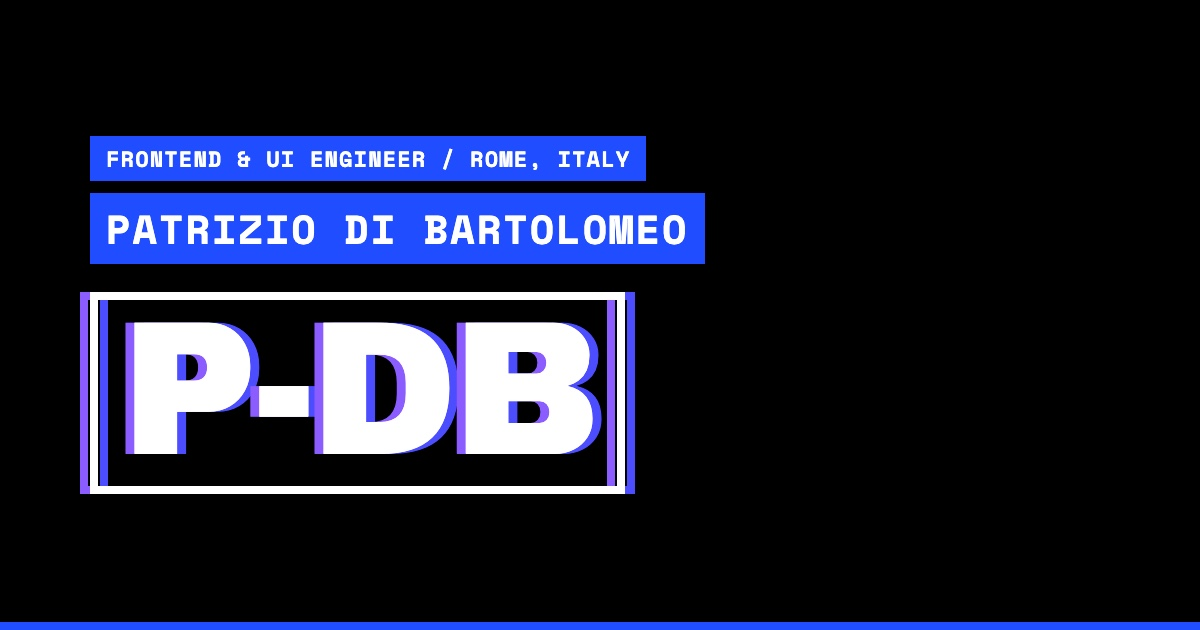
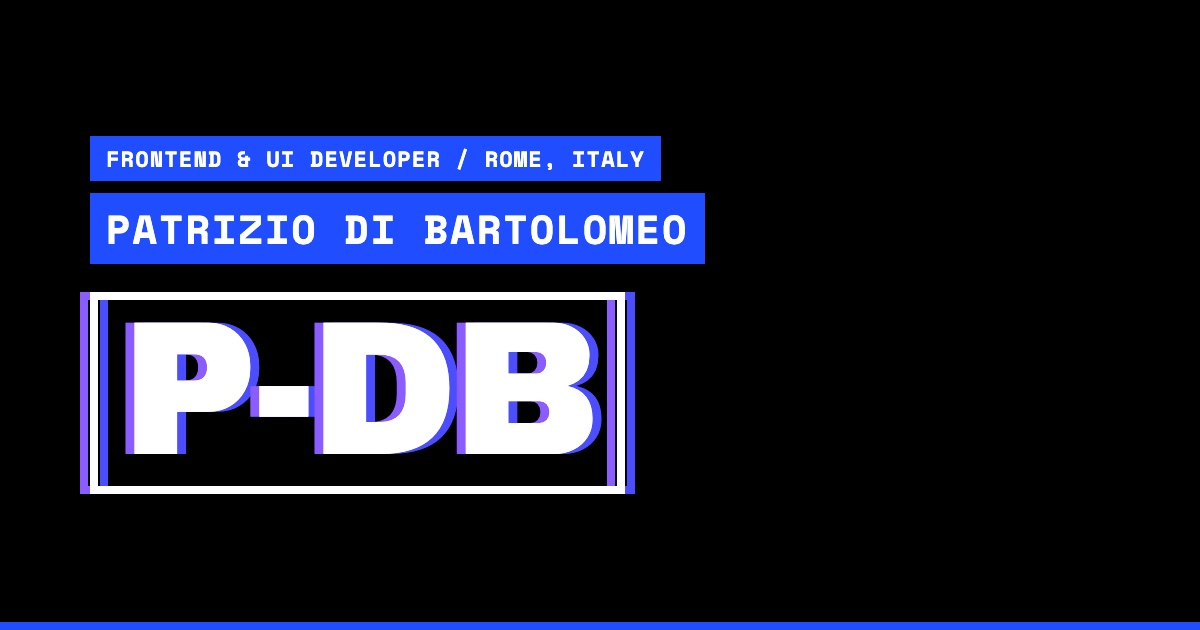
feat(content): use "Developer" instead of "Engineer" in job titles

Changed region(s): [[0.2467, 0.2111, 0.555, 0.3016]]

diff --git a/index.html b/index.html
@@ -3,10 +3,10 @@
   <head>
     <meta charset="UTF-8" />
     <meta name="viewport" content="width=device-width, initial-scale=1.0" />
-    <title>Patrizio Di Bartolomeo — Frontend &amp; UI Engineer</title>
+    <title>Patrizio Di Bartolomeo — Frontend &amp; UI Developer</title>
     <meta
       name="description"
-      content="Patrizio Di Bartolomeo, Frontend & UI Engineer in Rome. Design system foundations with reusable components and WCAG accessibility across web and mobile."
+      content="Patrizio Di Bartolomeo, Frontend & UI Developer in Rome. Design system foundations with reusable components and WCAG accessibility across web and mobile."
     />
     <meta name="author" content="Patrizio Di Bartolomeo" />
     <meta name="theme-color" content="#000000" />
@@ -17,7 +17,7 @@
     <meta property="og:type" content="website" />
     <meta property="og:url" content="https://p-db.github.io/" />
     <meta property="og:site_name" content="Patrizio Di Bartolomeo" />
-    <meta property="og:title" content="Patrizio Di Bartolomeo — Frontend & UI Engineer" />
+    <meta property="og:title" content="Patrizio Di Bartolomeo — Frontend & UI Developer" />
     <meta
       property="og:description"
       content="Design system foundations with reusable components and WCAG accessibility across web and mobile."
@@ -28,11 +28,11 @@
     <meta property="og:image:height" content="630" />
     <meta
       property="og:image:alt"
-      content="P-DB logo with the name Patrizio Di Bartolomeo, Frontend & UI Engineer, Rome, Italy"
+      content="P-DB logo with the name Patrizio Di Bartolomeo, Frontend & UI Developer, Rome, Italy"
     />
     <meta name="twitter:card" content="summary_large_image" />
     <meta name="twitter:image" content="https://p-db.github.io/og-image.jpg" />
-    <meta name="twitter:title" content="Patrizio Di Bartolomeo — Frontend & UI Engineer" />
+    <meta name="twitter:title" content="Patrizio Di Bartolomeo — Frontend & UI Developer" />
     <meta
       name="twitter:description"
       content="Design system foundations with reusable components and WCAG accessibility across web and mobile."

diff --git a/src/data.ts b/src/data.ts
@@ -15,10 +15,10 @@ export type Experience = {
 export const profile = {
   name: 'Patrizio Di Bartolomeo',
   logo: 'P-DB',
-  role: 'Frontend & UI Engineer',
+  role: 'Frontend & UI Developer',
   location: 'Rome, Italy',
   intro:
-    'Frontend & UI Engineer with over 10 years of experience building scalable design systems, multi-platform component libraries and modern web architectures.',
+    'Frontend & UI Developer with over 10 years of experience building scalable design systems, multi-platform component libraries and modern web architectures.',
   bio: [
     'I build design system foundations with reusable components and drive WCAG accessibility standards across web and mobile applications.',
     'I bridge design and engineering to deliver consistent, accessible and high-craft digital products — from Figma tokens to production components.',
@@ -39,7 +39,7 @@ export const profile = {
 
 export const experiences: Experience[] = [
   {
-    role: 'Lead Frontend & UI Engineer',
+    role: 'Lead Frontend & UI Developer',
     company: 'Soldo',
     url: 'https://www.soldo.com',
     type: 'Full time',

diff --git a/README.md b/README.md
@@ -1,6 +1,6 @@
 # P-DB — Portfolio
 
-Personal portfolio of **Patrizio Di Bartolomeo**, Frontend & UI Engineer based in Rome.
+Personal portfolio of **Patrizio Di Bartolomeo**, Frontend & UI Developer based in Rome.
 
 A single-page, brutalist site: thick black borders, hard blue shadows, a black hero with a glitching boxed logo, and a film-grain texture on the dark sections. Built to be fast, responsive and accessible.
 
